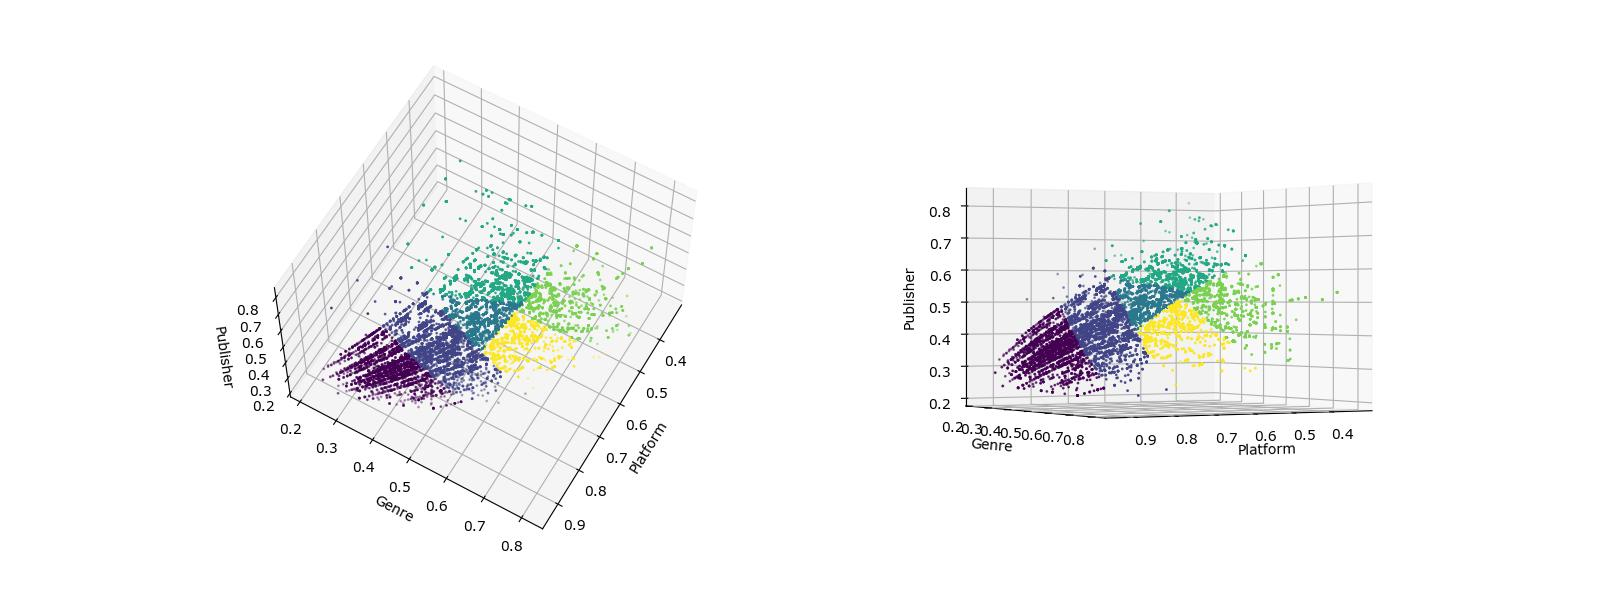
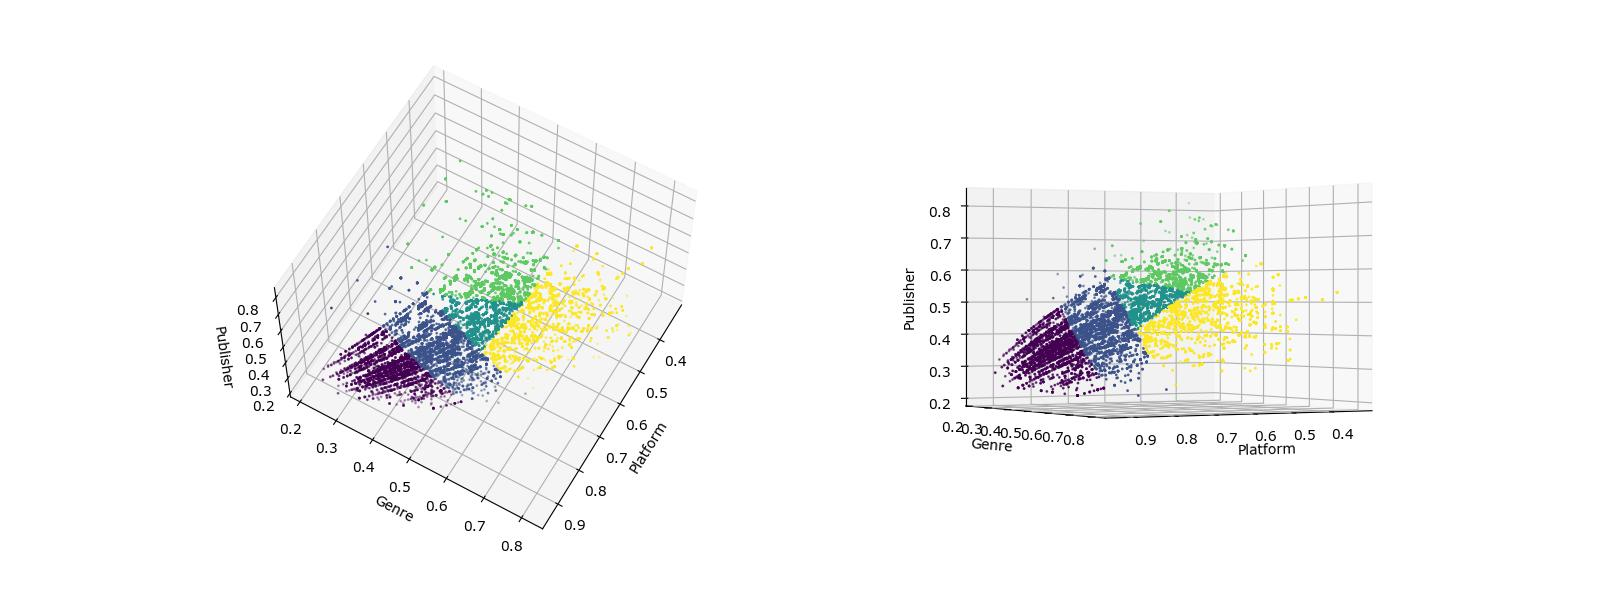
add recommendation output

Changed region(s): [[0.6875, 0.39, 0.8125, 0.6], [0.25, 0.39, 0.4062, 0.57]]

diff --git a/scripts/main.py b/scripts/main.py
@@ -1,6 +1,6 @@
 from pickle import dump
 from scripts.cleansing import cleanse_data
-from scripts.config import ASSET_PATH_REGRESSIONS_DUMP, DATA_PATH_VGSALES
+from scripts.config import ASSET_PATH_REGRESSIONS_DUMP, DATA_PATH_VGSALES, ASSET_PATH_RECOMMENDATIONS
 from scripts.utils.dataset_scaler import DatasetScaler
 from scripts.helpers import delete_useless_elements, split_list, read_dataset
 from scripts.regressions.helpers import get_regressions
@@ -21,19 +21,19 @@ cleanse_data(
     float_columns=["Year"],
     delete_columns=["NA_Sales", "EU_Sales", "JP_Sales", "Other_Sales"])
 
-# y_cols, x_cols = split_list(list(dataset.columns), ["Global_Sales"])
+y_cols, x_cols = split_list(list(dataset.columns), ["Global_Sales"])
 
-# dataset_scaler = DatasetScaler(dataset, x_cols)
+dataset_scaler = DatasetScaler(dataset, x_cols)
 
-# regressions = list(get_regressions())
+regressions = list(get_regressions())
 
-# analyzer = RegressionsAnalyzer(dataset_scaler.scaled_dataset, regressions, x_cols, y_cols)
+analyzer = RegressionsAnalyzer(dataset_scaler.scaled_dataset, regressions, x_cols, y_cols)
 
-# analyzer.run()
+analyzer.run()
 
-# analyzer.dump_scores(ASSET_PATH_REGRESSIONS_DUMP)
+analyzer.dump_scores(ASSET_PATH_REGRESSIONS_DUMP)
 
-# print_coor_matrix(dataset_scaler.scaled_dataset, "Global_Sales", x_cols)
+print_coor_matrix(dataset_scaler.scaled_dataset, "Global_Sales", x_cols)
 
 # recommendations
 x_cols = ["Platform", "Genre", "Publisher"]
@@ -45,4 +45,8 @@ recommendation.build_system(x_cols)
 test = dataset.iloc[[100]]
 print(test[["Name"]+x_cols], '\n')
 recommendations = recommendation.recommend(test, dataset)
-print(str(recommendations[["Name"]+x_cols]))
+with open(ASSET_PATH_RECOMMENDATIONS, 'w') as f:
+    f.writelines(str(test[["Name"]+x_cols]))
+    f.write('\n')
+    f.writelines(str(recommendations[["Name"]+x_cols]))
+

diff --git a/scripts/utils/recommendation_system.py b/scripts/utils/recommendation_system.py
@@ -21,10 +21,10 @@ class RecommendationSystem:
         kwargs = kmeans_kwargs
 
         max_kernels = 30
-        sse = get_sum_of_square_errors(features, cluster_algo, max_kernels, **kwargs)
+        sse = get_sum_of_square_errors(features, KMeans, max_kernels, **kmeans_kwargs)
         
         n_clusters= get_clusters_count(sse)
-        self.__model = get_clusters(features, cluster_algo, n_components=n_clusters, **kwargs)
+        self.__model = get_clusters(features, cluster_algo, n_clusters=n_clusters, **kwargs)
 
         clusters = cluster_predict(features, self.__model)
         self.__dataset['Cluster_Prediction']=list(clusters)  

diff --git a/scripts/clusters/kwargs.py b/scripts/clusters/kwargs.py
@@ -1,12 +1,20 @@
-bisecting_kmeans_kwargs = kmeans_kwargs = {
+kmeans_kwargs = {
     'init': 'random',
     'n_init': 10,
     'max_iter': 500,
     'random_state': 42,
 }
+bisecting_kmeans_kwargs = {
+    'init': 'random',
+    'n_init': 10,
+    'max_iter': 500,
+    'random_state': 42,
+    'bisecting_strategy': 'largest_cluster',
+}
 spectral_kwargs = {
     'n_init': 10,
     'random_state': 42,
+    'assign_labels': 'cluster_qr',
 }
 gaussian_mixture_kwargs = {
     'n_init': 10,

diff --git a/scripts/config.py b/scripts/config.py
@@ -2,6 +2,8 @@ DATA_PATH_VGSALES = "data/vgsales.csv"
 DATA_PATH_SALES = "data/sales.csv"
 
 ASSET_PATH_ELBOWPLOT = "assets/elbow-test.jpg"
+ASSET_PATH_SILHOUETTEPLOT = "assets/silhouette.jpg"
+ASSET_PATH_RECOMMENDATIONS = "assets/recommendations.txt"
 ASSET_PATH_CLUSTERSPLOT = "assets/clusters.jpg"
 ASSET_PATH_CLUSTERS_VALUATION = "assets/clusters-values.txt"
 ASSET_PATH_GAMESMODEL = "assets/games-model.mdl"

diff --git a/scripts/clusters/helpers.py b/scripts/clusters/helpers.py
@@ -40,7 +40,7 @@ def get_clusters(features: DataFrame, algorithm: object, **kwargs: dict):
 
 
 def cluster_predict(elements, model):
-    return model.fit(elements)
+    return model.predict(elements)
 
   
 def plot_elbow_test(sse : list) -> None:

diff --git a/scripts/utils/dataset_scaler.py b/scripts/utils/dataset_scaler.py
@@ -1,7 +1,6 @@
 from pandas import DataFrame
 from sklearn.feature_extraction.text import TfidfVectorizer
 
-# TODO: improve scaling.
 class DatasetScaler:
 
     def __init__(self, dataset: DataFrame, columns : list = None) -> None:
